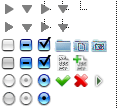
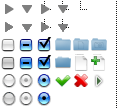
Updated jsTree

Changed region(s): [[0.4286, 0.3333, 0.8571, 0.6667], [0.7381, 0.6389, 0.8333, 0.6667]]

diff --git a/app/stylesheets/jquery.ui/jstree.classic.scss b/app/stylesheets/jquery.ui/jstree.classic.scss
@@ -32,7 +32,7 @@
     padding: 0 2px 0 1px;
     color: white; }
   a .jstree-icon {
-    background-position: -56px -19px; }
+    background-position: -56px -18px; }
   .jstree-open > a .jstree-icon {
     background-position: -56px -36px; }
   a.jstree-loading .jstree-icon {
@@ -65,18 +65,34 @@
   .jstree-unchecked > a > .jstree-checkbox:hover {
     background-position: -2px -37px; }
   .jstree-undetermined > a > .jstree-checkbox:hover {
+    background-position: -20px -37px; }
+  .jstree-no-icons .jstree-radio {
+    display: inline-block; }
+  .jstree-no-radios .jstree-radio {
+    display: none !important; }
+  .jstree-checked > a > .jstree-radio {
+    background-position: -38px -19px; }
+  .jstree-unchecked > a > .jstree-radio {
+    background-position: -2px -19px; }
+  .jstree-undetermined > a > .jstree-radio {
+    background-position: -20px -19px; }
+  .jstree-checked > a > .jstree-radio:hover {
+    background-position: -38px -37px; }
+  .jstree-unchecked > a > .jstree-radio:hover {
+    background-position: -2px -37px; }
+  .jstree-undetermined > a > .jstree-radio:hover {
     background-position: -20px -37px; } }
 
 #vakata-dragged.jstree-classic {
   ins {
     background: transparent !important; }
   .jstree-ok {
-    background: image_url("jquery.ui/jstree.classic/d.png") -2px -53px no-repeat !important; }
+    background: image_url("jquery.ui/jstree.classic/d.png") -56px -53px no-repeat !important; }
   .jstree-invalid {
-    background: image_url("jquery.ui/jstree.classic/d.png") -18px -53px no-repeat !important; } }
+    background: image_url("jquery.ui/jstree.classic/d.png") -72px -53px no-repeat !important; } }
 
 #jstree-marker.jstree-classic {
-  background: image_url("jquery.ui/jstree.classic/d.png") -41px -57px no-repeat !important; }
+  background: image_url("jquery.ui/jstree.classic/d.png") -95px -57px no-repeat !important; }
 
 .jstree-classic a.jstree-search {
   color: aqua; }

diff --git a/app/stylesheets/jquery.ui/jstree.aqua.scss b/app/stylesheets/jquery.ui/jstree.aqua.scss
@@ -34,13 +34,14 @@
     background: #beebff;
     border: 1px solid #99defd;
     padding: 0 2px 0 1px; }
-  a {
-    .jstree-icon {
-      background-position: -56px -37px; }
-    &.jstree-loading .jstree-icon {
-      background: image_url("jquery.ui/jstree.aqua/throbber.gif") center center no-repeat !important; } }
+  a .jstree-icon {
+    background-position: -56px -36px; }
+  .jstree-open > a .jstree-icon {
+    background-position: -56px -54px; }
+  a.jstree-loading .jstree-icon {
+    background: image_url("jquery.ui/jstree.aqua/throbber.gif") center center no-repeat !important; }
   &.jstree-focused {
-    background: #ffffee; }
+    background: white; }
   .jstree-no-dots {
     li, .jstree-leaf > ins {
       background: transparent; }
@@ -74,7 +75,7 @@
     background-position: -20px -55px; }
   .jstree-no-icons .jstree-radio {
     display: inline-block; }
-  .jstree-no-radioes .jstree-radio {
+  .jstree-no-radios .jstree-radio {
     display: none !important; }
   .jstree-checked > a > .jstree-radio {
     background-position: -38px -73px; }
@@ -175,8 +176,11 @@
     _background-position: -54px -18px; }
   .jstree-closed ins {
     _background-position: -36px -18px; }
-  a ins.jstree-icon {
-    _background-position: -56px -37px; } }
+  a ins {
+    &.jstree-icon {
+      _background-position: -56px -36px; }
+    &.jstree-open {
+      _background-position: -56px -54px; } } }
 
 #vakata-contextmenu.jstree-aqua-context {
   ins {

diff --git a/app/stylesheets/jquery.ui/jstree.chrystal.scss b/app/stylesheets/jquery.ui/jstree.chrystal.scss
@@ -34,11 +34,12 @@
     background: #beebff;
     border: 1px solid #99defd;
     padding: 0 2px 0 1px; }
-  a {
-    .jstree-icon {
-      background-position: -56px -37px; }
-    &.jstree-loading .jstree-icon {
-      background: image_url("jquery.ui/jstree.chrystal/throbber.gif") center center no-repeat !important; } }
+  a .jstree-icon {
+    background-position: -56px -36px; }
+  .jstree-open > a .jstree-icon {
+    background-position: -56px -54px; }
+  a.jstree-loading .jstree-icon {
+    background: image_url("jquery.ui/jstree.chrystal/throbber.gif") center center no-repeat !important; }
   &.jstree-focused {
     background: white; }
   .jstree-no-dots {
@@ -74,7 +75,7 @@
     background-position: -20px -55px; }
   .jstree-no-icons .jstree-radio {
     display: inline-block; }
-  .jstree-no-radioes .jstree-radio {
+  .jstree-no-radios .jstree-radio {
     display: none !important; }
   .jstree-checked > a > .jstree-radio {
     background-position: -38px -73px; }
@@ -175,8 +176,11 @@
     _background-position: -54px -18px; }
   .jstree-closed ins {
     _background-position: -36px -18px; }
-  a ins.jstree-icon {
-    _background-position: -56px -37px; } }
+  a ins {
+    &.jstree-icon {
+      _background-position: -56px -36px; }
+    &.jstree-open {
+      _background-position: -56px -54px; } } }
 
 #vakata-contextmenu.jstree-chrystal-context {
   ins {

diff --git a/app/stylesheets/jquery.ui/jstree.aero.scss b/app/stylesheets/jquery.ui/jstree.aero.scss
@@ -36,7 +36,7 @@
     padding: 0 2px 0 1px; }
   a {
     .jstree-icon {
-      background-position: -56px -37px; }
+      background-position: -56px -36px; }
     &.jstree-loading .jstree-icon {
       background: image_url("jquery.ui/jstree.aero/throbber.gif") center center no-repeat !important; } }
   &.jstree-focused {
@@ -74,7 +74,7 @@
     background-position: -20px -55px; }
   .jstree-no-icons .jstree-radio {
     display: inline-block; }
-  .jstree-no-radioes .jstree-radio {
+  .jstree-no-radios .jstree-radio {
     display: none !important; }
   .jstree-checked > a > .jstree-radio {
     background-position: -38px -73px; }
@@ -176,7 +176,7 @@
   .jstree-closed ins {
     _background-position: -36px -18px; }
   a ins.jstree-icon {
-    _background-position: -56px -37px; } }
+    _background-position: -56px -36px; } }
 
 #vakata-contextmenu.jstree-aero-context {
   ins {
